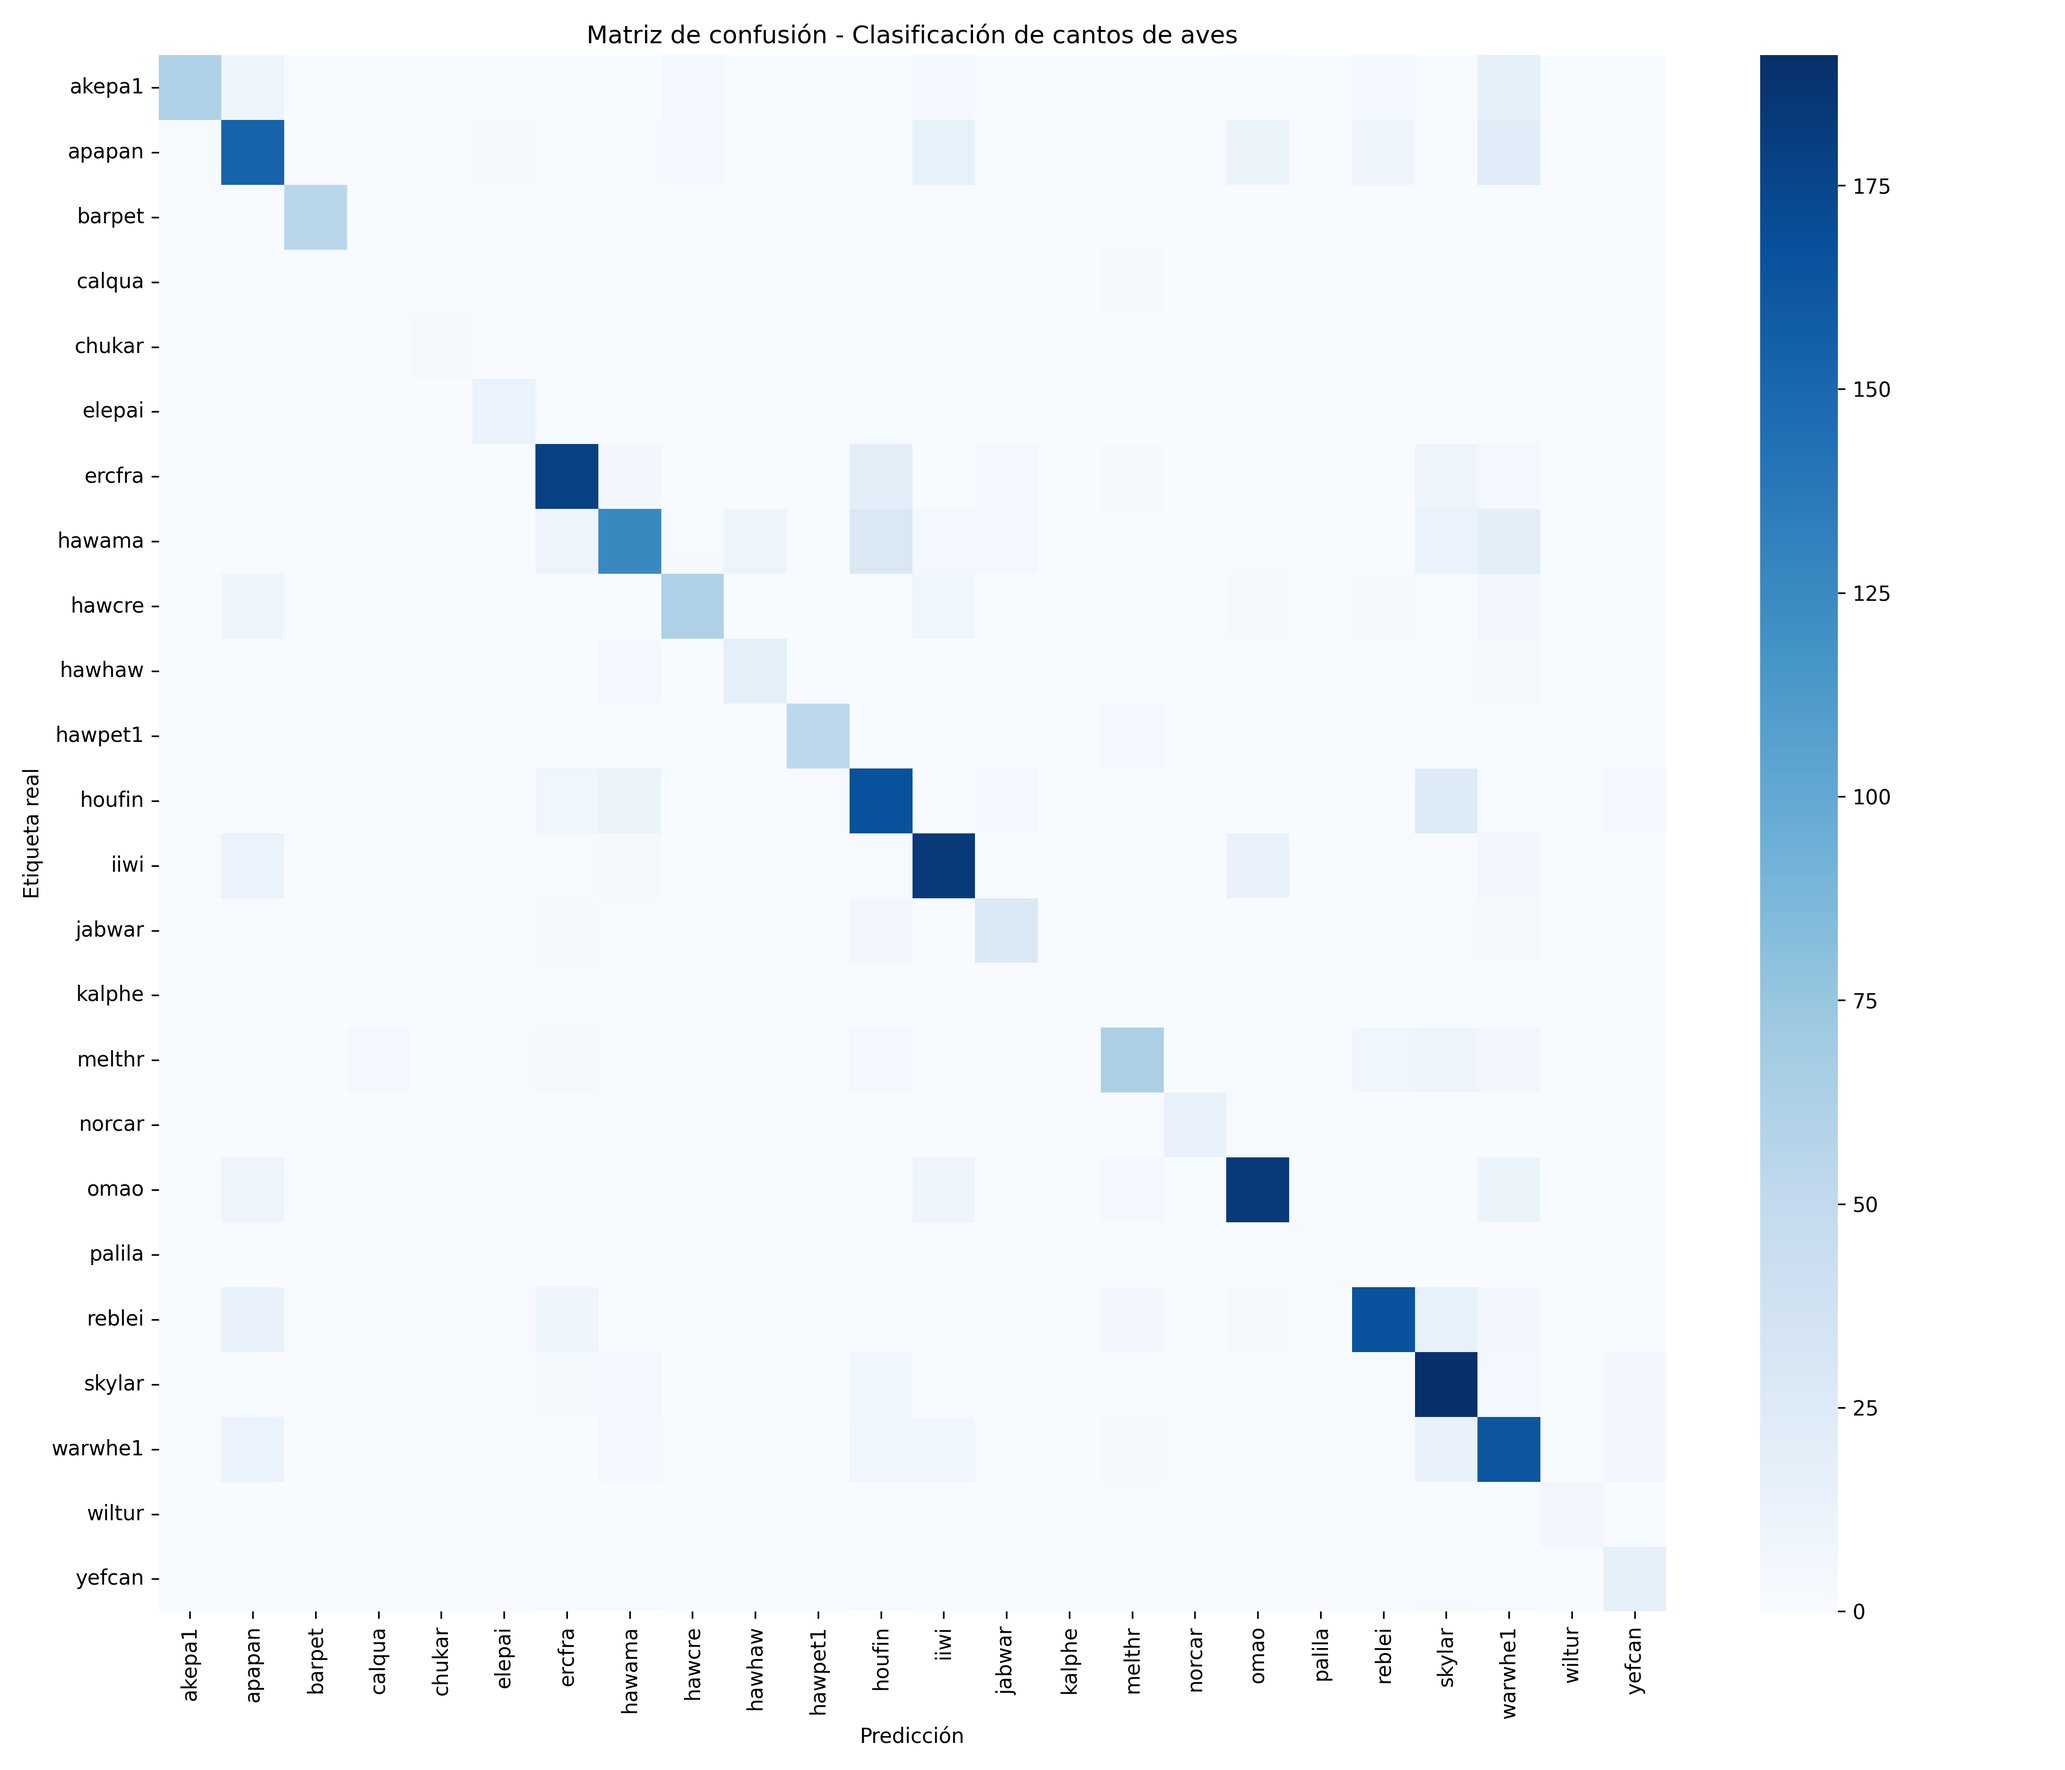
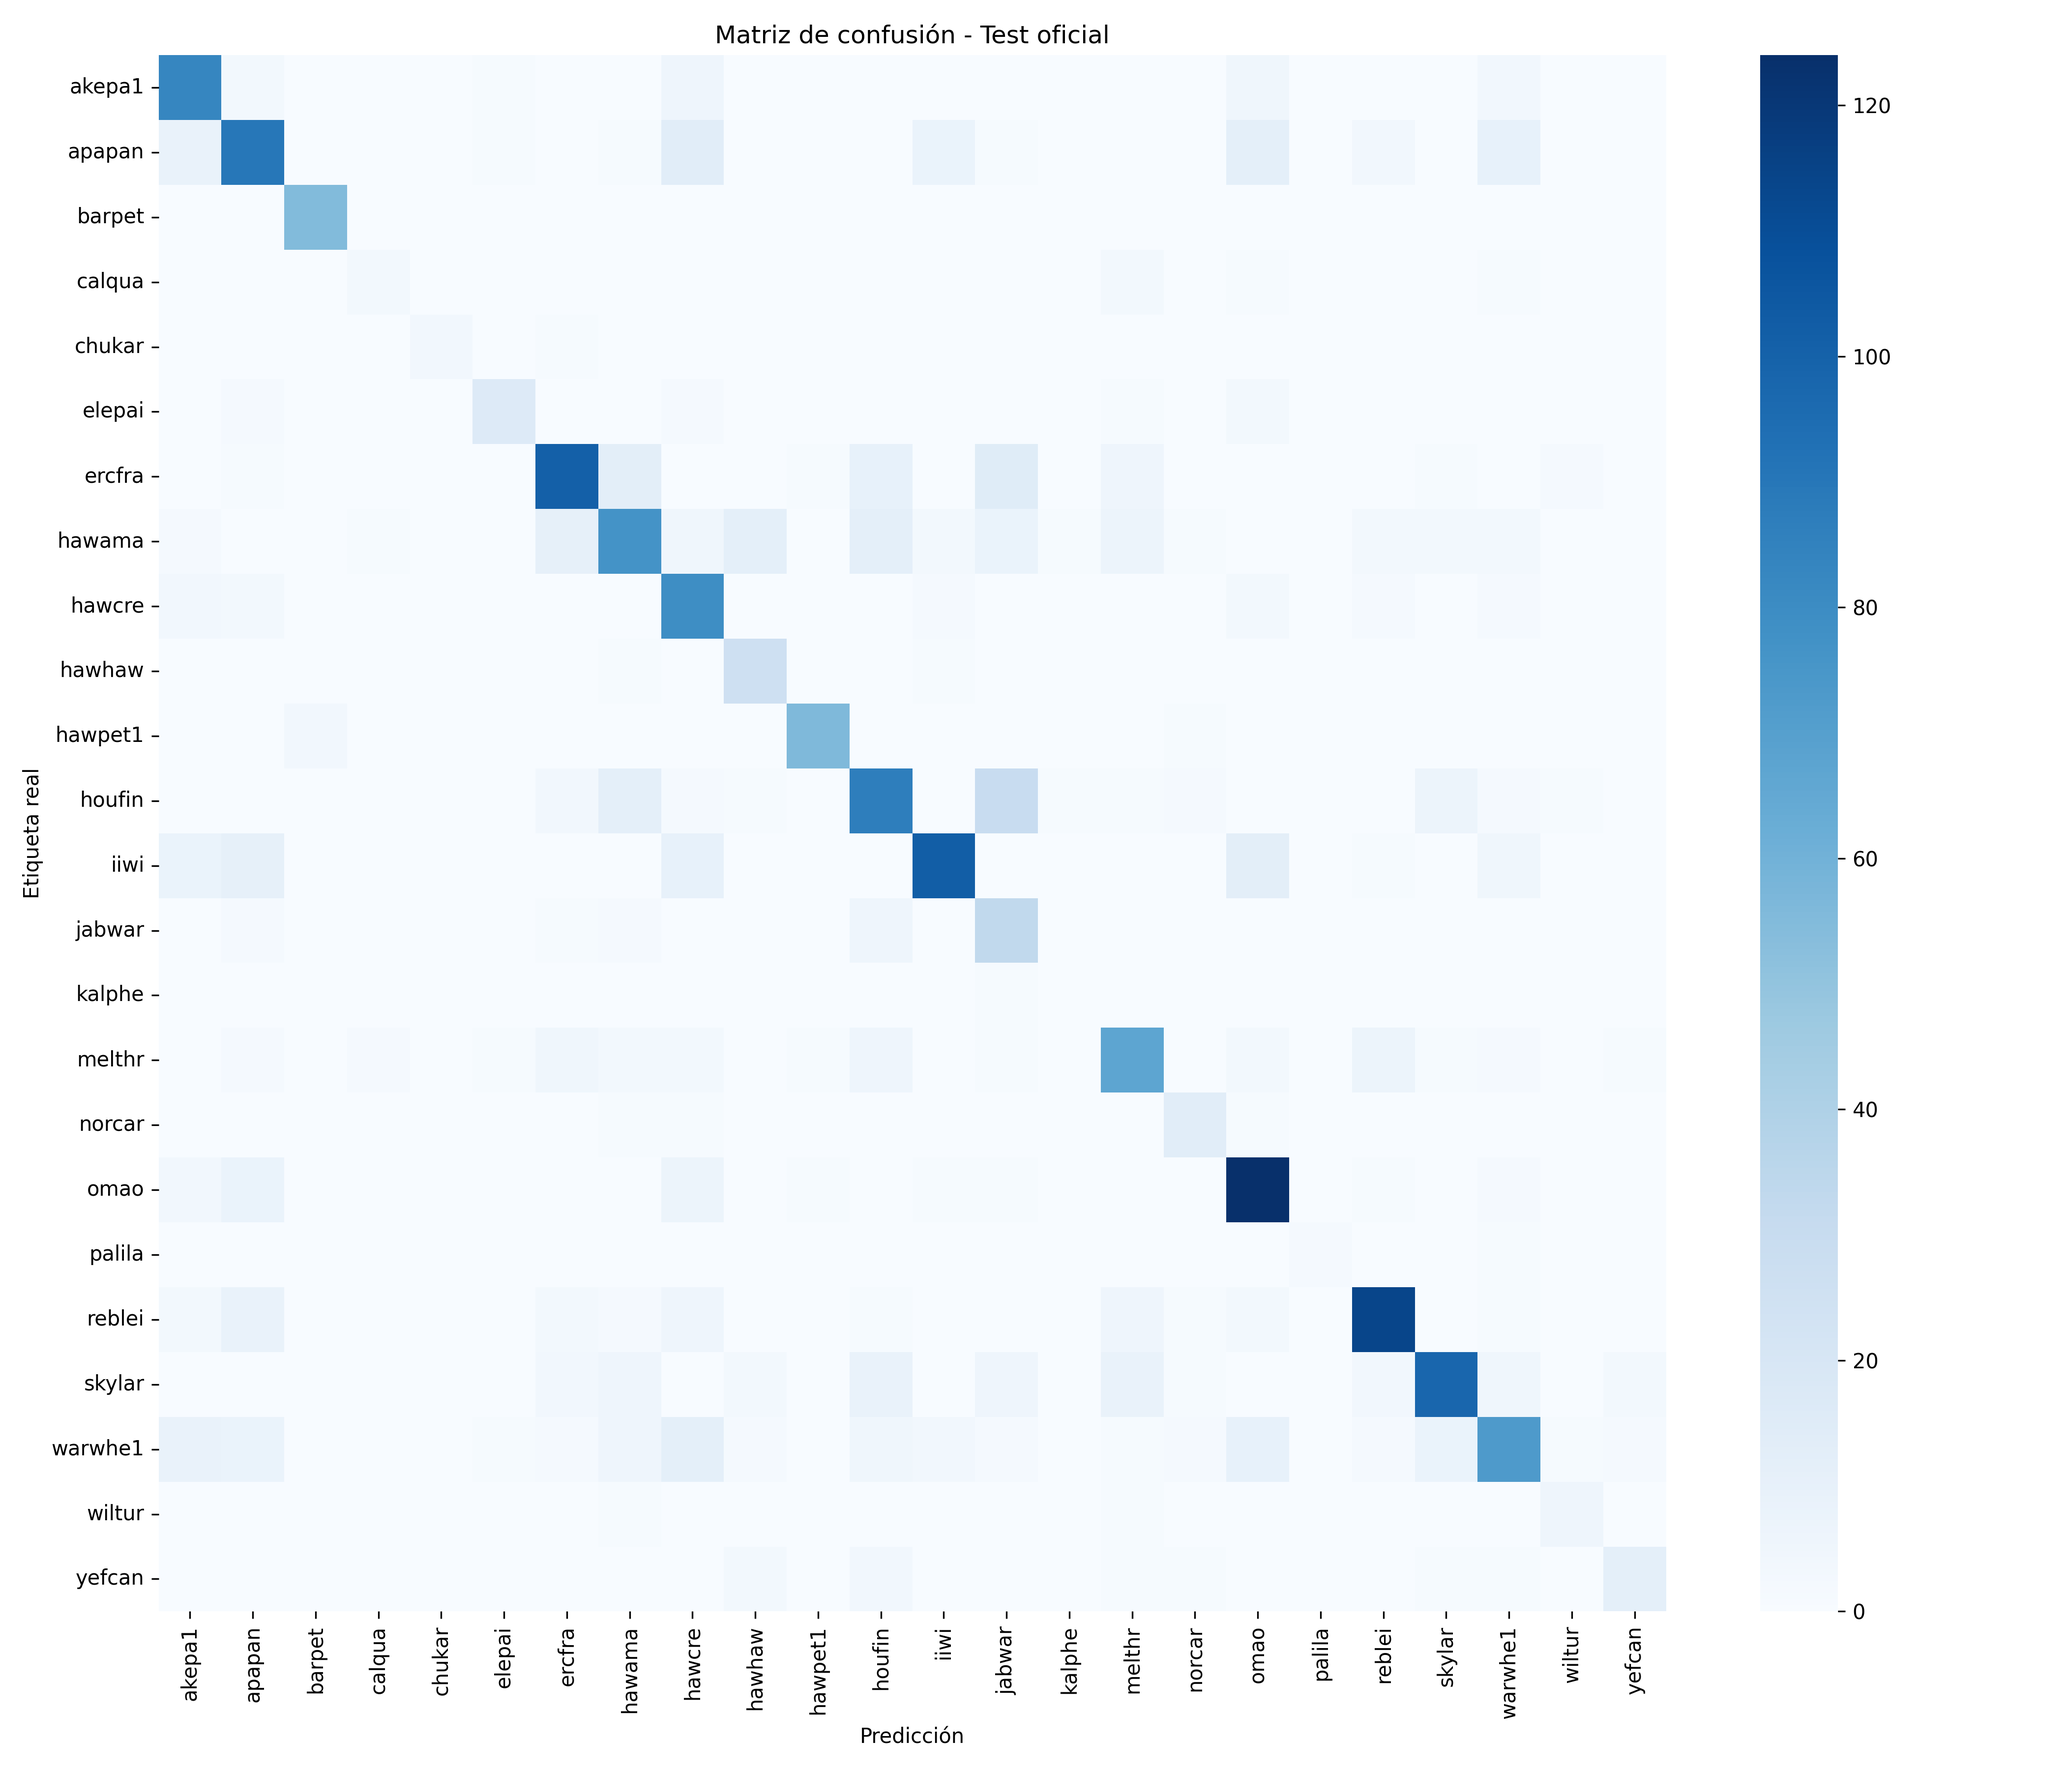
eval

diff --git a/src/03_evaluate.py b/src/03_evaluate.py
@@ -5,79 +5,51 @@ import seaborn as sns
 import matplotlib.pyplot as plt
 import tensorflow as tf
 
-from sklearn.model_selection import train_test_split
-from sklearn.preprocessing import LabelEncoder
-from sklearn.metrics import classification_report, confusion_matrix
+from sklearn.metrics import (
+    classification_report,
+    confusion_matrix,
+    f1_score,
+    precision_score,
+    recall_score
+)
 
 PROCESSED_DIR = "processed"
-MODEL_PATH = "models/best_cnn_model.keras"
-MIN_SAMPLES_PER_CLASS = 5
+MODEL_DIR = "models"
+MODEL_PATH = os.path.join(MODEL_DIR, "best_cnn_model.keras")
 
-X = np.load(os.path.join(PROCESSED_DIR, "X.npy"))
-y = np.load(os.path.join(PROCESSED_DIR, "y.npy"))
+X_test = np.load(os.path.join(PROCESSED_DIR, "X_test.npy"))
+y_test = np.load(os.path.join(PROCESSED_DIR, "y_test.npy"))
 
 with open(os.path.join(PROCESSED_DIR, "label_encoder.pkl"), "rb") as f:
-    old_encoder = pickle.load(f)
+    encoder = pickle.load(f)
 
-old_class_names = old_encoder.classes_
-
-# =========================
-# FILTRAR IGUAL QUE EN TRAIN
-# =========================
-
-classes, counts = np.unique(y, return_counts=True)
-valid_classes = classes[counts >= MIN_SAMPLES_PER_CLASS]
-
-mask = np.isin(y, valid_classes)
-
-X = X[mask]
-y = y[mask]
-
-y_text = old_class_names[y]
-
-new_encoder = LabelEncoder()
-y = new_encoder.fit_transform(y_text)
-
-class_names = new_encoder.classes_
-
-print("X filtrado:", X.shape)
-print("y filtrado:", y.shape)
-print("Número de clases:", len(class_names))
-
-# =========================
-# MISMO SPLIT QUE EN TRAIN
-# =========================
-
-X_train, X_temp, y_train, y_temp = train_test_split(
-    X,
-    y,
-    test_size=0.30,
-    random_state=42,
-    stratify=y
-)
-
-X_val, X_test, y_val, y_test = train_test_split(
-    X_temp,
-    y_temp,
-    test_size=0.50,
-    random_state=42,
-    stratify=y_temp
-)
-
-# =========================
-# CARGAR MODELO
-# =========================
+class_names = encoder.classes_
 
 model = tf.keras.models.load_model(MODEL_PATH)
-
-# =========================
-# EVALUAR
-# =========================
 
 probs = model.predict(X_test)
 y_pred = np.argmax(probs, axis=1)
 
-print("\nClassification report:")
+test_loss, test_acc = model.evaluate(X_test, y_test, verbose=0)
+
+macro_f1 = f1_score(y_test, y_pred, average="macro", zero_division=0)
+weighted_f1 = f1_score(y_test, y_pred, average="weighted", zero_division=0)
+macro_precision = precision_score(y_test, y_pred, average="macro", zero_division=0)
+macro_recall = recall_score(y_test, y_pred, average="macro", zero_division=0)
+
+print("\n==============================")
+print("MÉTRICAS GENERALES - TEST OFICIAL")
+print("==============================")
+print(f"Test loss: {test_loss:.4f}")
+print(f"Test accuracy: {test_acc:.4f}")
+print(f"Macro Precision: {macro_precision:.4f}")
+print(f"Macro Recall: {macro_recall:.4f}")
+print(f"Macro F1: {macro_f1:.4f}")
+print(f"Weighted F1: {weighted_f1:.4f}")
+
+print("\n==============================")
+print("REPORTE POR CLASE")
+print("==============================")
 print(classification_report(
     y_test,
     y_pred,
@@ -98,9 +70,29 @@ sns.heatmap(
 
 plt.xlabel("Predicción")
 plt.ylabel("Etiqueta real")
-plt.title("Matriz de confusión - Clasificación de cantos de aves")
+plt.title("Matriz de confusión - Test oficial")
 plt.xticks(rotation=90)
 plt.yticks(rotation=0)
 plt.tight_layout()
-plt.savefig("models/confusion_matrix.png", dpi=300)
+plt.savefig(os.path.join(MODEL_DIR, "confusion_matrix.png"), dpi=300)
+plt.show()
+
+cm_norm = cm.astype("float") / (cm.sum(axis=1, keepdims=True) + 1e-8)
+
+plt.figure(figsize=(14, 12))
+sns.heatmap(
+    cm_norm,
+    cmap="Blues",
+    xticklabels=class_names,
+    yticklabels=class_names,
+    annot=False
+)
+
+plt.xlabel("Predicción")
+plt.ylabel("Etiqueta real")
+plt.title("Matriz de confusión normalizada - Test oficial")
+plt.xticks(rotation=90)
+plt.yticks(rotation=0)
+plt.tight_layout()
+plt.savefig(os.path.join(MODEL_DIR, "confusion_matrix_normalized.png"), dpi=300)
 plt.show()
